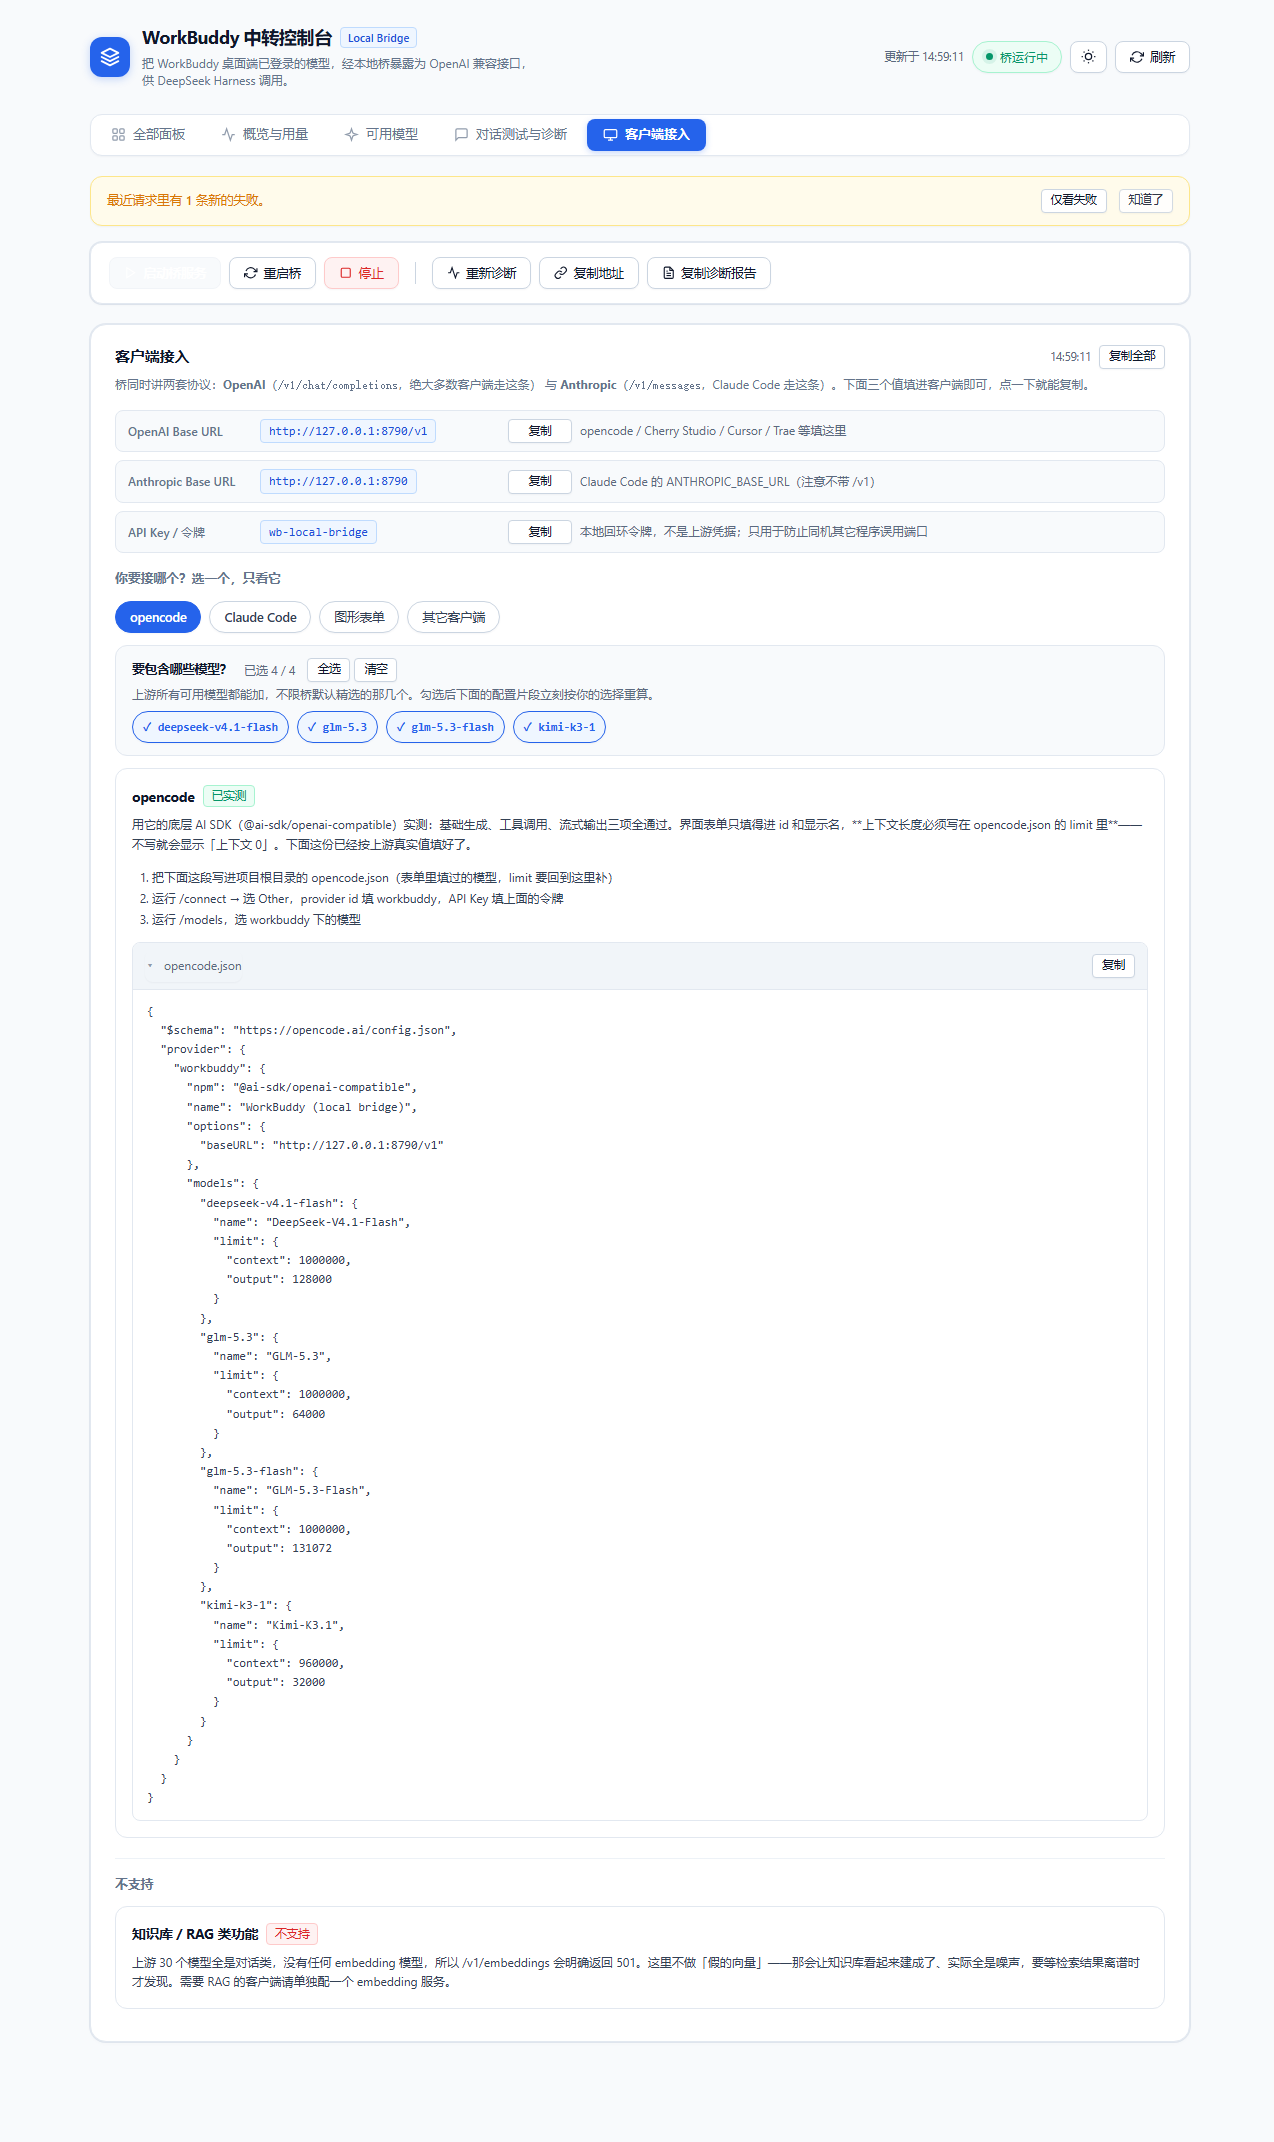
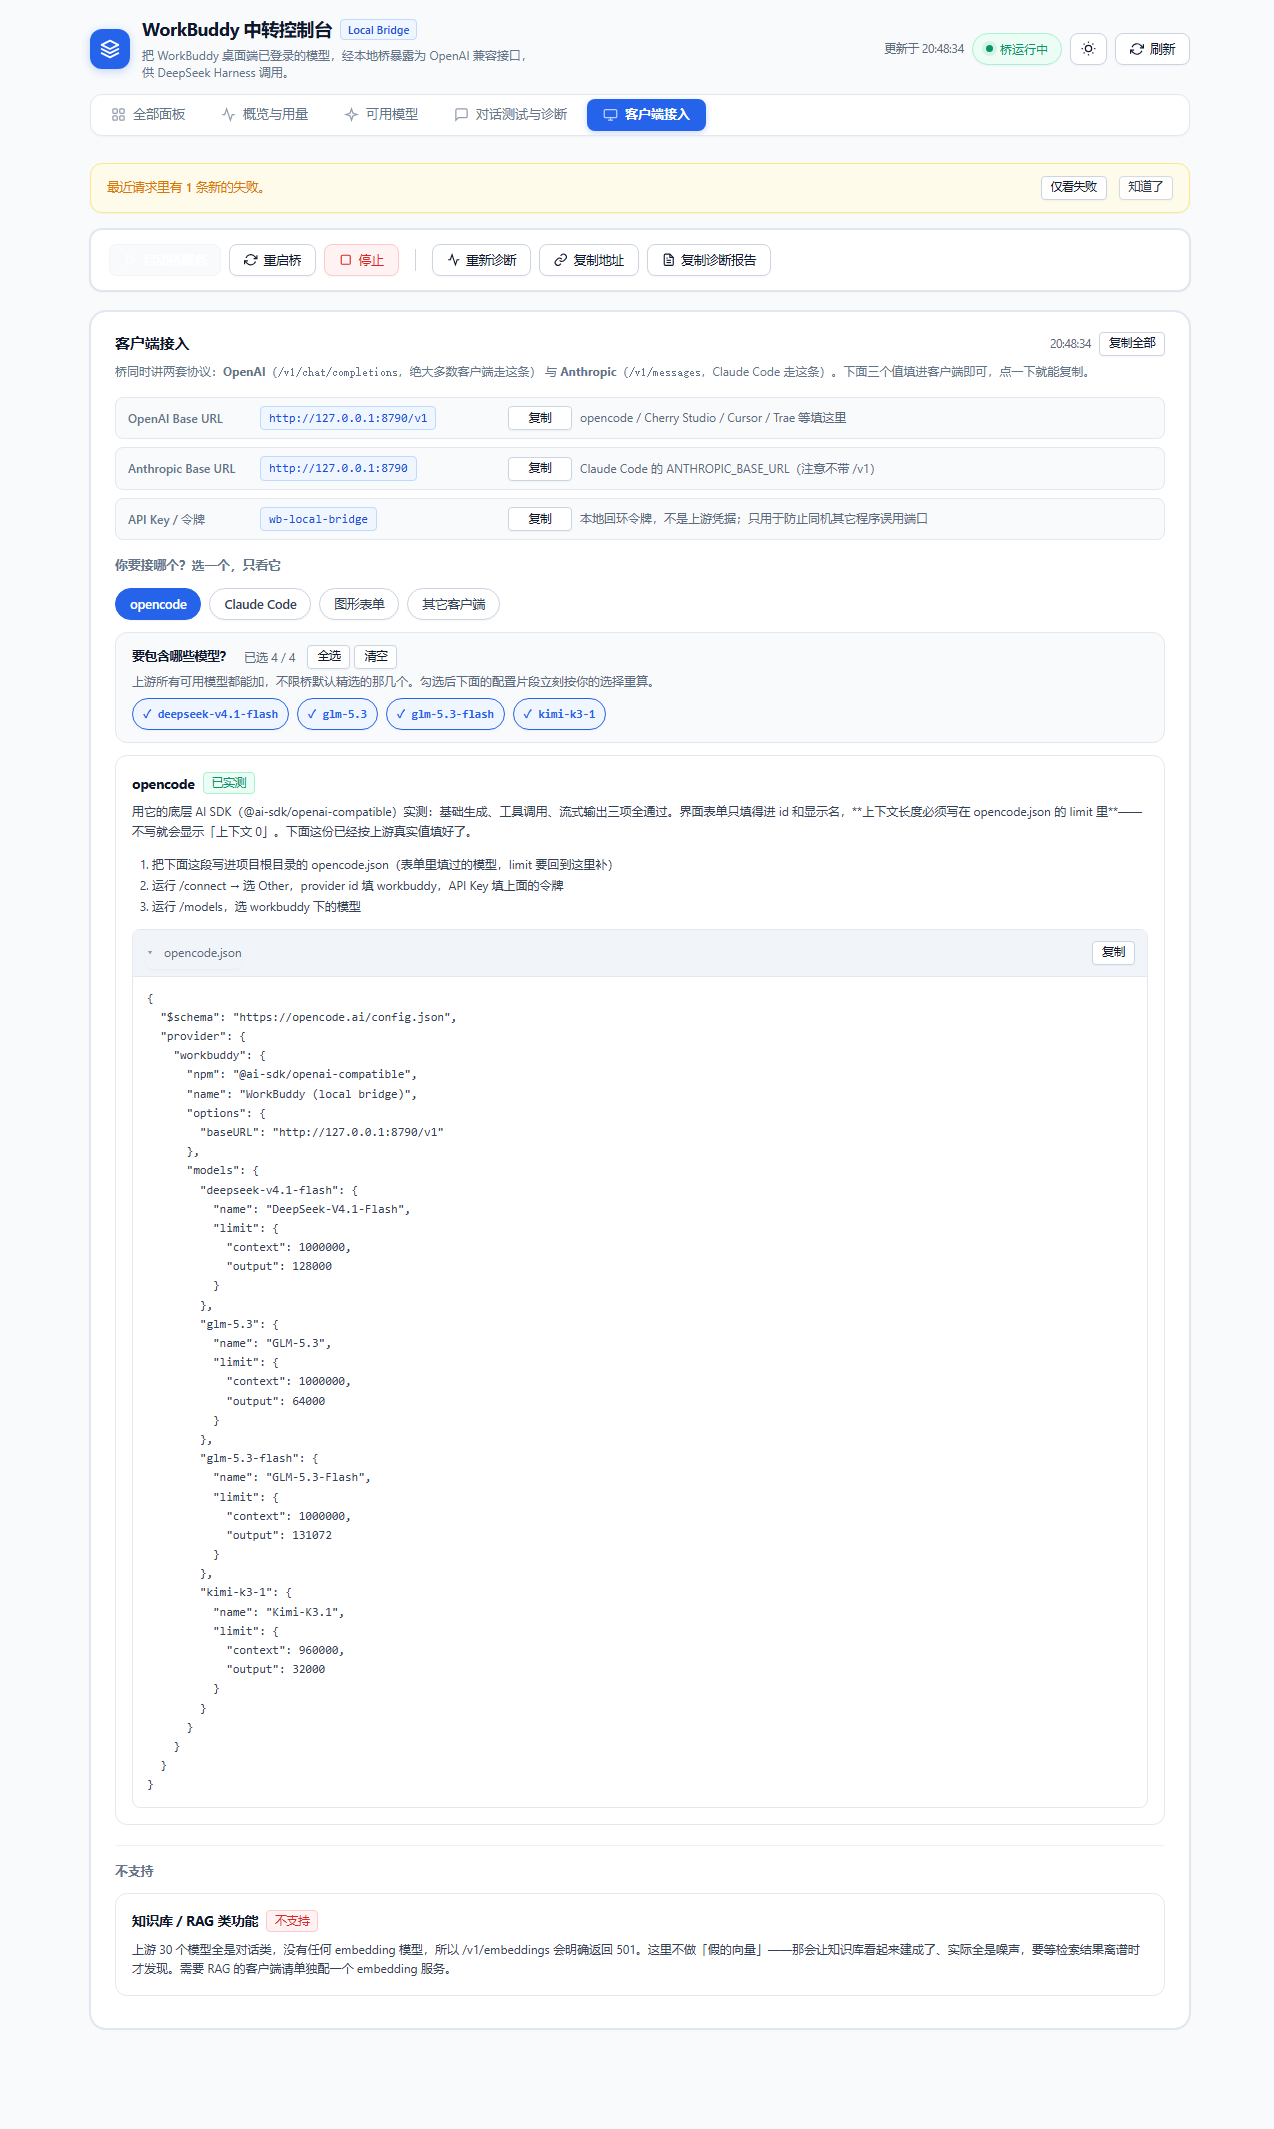
fix: 自动签到不生效 + 模型选择器只列 3 个
用户报的两个问题，根因完全不同，都不是"配置没开"。

## Bug 1：控制台不开、不调模型，就永远不签到

签到原先只挂在 `/v1/chat/completions` 开头 —— 「有人调模型」才顺带签一次。
但**桥才是常驻后台的那个进程**，控制台是用户平时会关掉的。

实测证据（用户的桥日志）：桥从 13:03 一直跑着，10-07 一整天**零模型请求**，
于是**一次签到都没发生**；控制台 20:03 才起，3 秒后触发时用户已经手动签过了
（`.state.json` 里 `lastResult: "already"`、`lastSource: "hourly"`）。

「自动签到」的承诺就是不让人记着这件事 —— 光靠「有人调模型」和「控制台开着」
覆盖不了「不开控制台也不调模型」这个**最常见的状态**。

**修**：桥加自己的定时器（启动 20s 后一次、之后每小时一次）。
另外补 `autoCheckinDoneDay`：当天签成功后就不再打上游 —— 没有这条的话，
定时器每小时都会问一次「签了没」，而答案永远是「签了」。国际版「没有签到活动」
同样当天收工（那个账号永远不会有成功）。

## Bug 2：明明 30 个模型，选择器只列 3 个

选择器列的是完整目录（`/api/models`），而它与 `/api/clients` 是**并行请求**的，
谁先回来不确定。clients 先回来时选择器只能用精选集兜底渲染 —— 而
`loadModels()` 重渲染了模型表、卡片、标题，**唯独没有重渲染客户端面板**，
于是它**永远停在精选集**。

页面看起来完全正常、没有任何报错。实测：目录加载完 30 个模型后，
选择器仍只显示 4 个。

**修**：`loadModels()` 里补一次 `renderClients()`（只在面板已渲染过时）。
用户已勾选的内容存在 `clientChosenModels` 里，重渲染不会丢。

## 两个测试写法上的坑（都是我自己的）

- **`billingBase()` 对非 codebuddy/workbuddy 域名会硬编码回 `www.codebuddy.cn`**
  —— 第一版测试没设 `WORKBUDDY_BILLING_BASE`，签到请求打到了**真实上游**
  （表现为「假上游计数 0 + HTTP 500」）。那个环境变量就是为离线验证准备的。
- **假上游判据写成 `includes('/checkin')` 匹配不上 `daily-checkin`**（连字符不是斜杠），
  静默落到 billing 分支 → 「签到成功但 credit 恒为 0」。

## 验证

- 新增 `test-auto-checkin.mjs`：**全程零 chat 请求**，断言桥仍能自己签到
  （0 chat → 1 次 POST → `ok 100`），且成功后不重复打上游
- 新增 `test-model-picker-catalog.mjs`：两种返回顺序（目录先到 / 后到）
  都必须列出**完整目录**，而不是精选集
- 面板断言 87 → 88 项（补「选择器列出完整目录」）
- `release:check` 74/74，动效审计、数据排版全通过

diff --git a/dashboard/public/index.html b/dashboard/public/index.html
@@ -2380,6 +2380,20 @@ async function loadModels(opts = {}) {
   renderCards();
   renderModelSection();
   refreshTitle(); // 标题里的「M 模型」来自目录
+
+  /*
+   * 目录到了要**重渲染客户端接入面板**。
+   *
+   * 那个面板里的模型选择器列的是**完整目录**，而 `/api/clients` 与 `/api/models`
+   * 是并行请求的 —— 谁先回来不确定。clients 先回来时，选择器只能用精选集兜底渲染；
+   * 目录到达后若不重渲染，它就会**永远停在精选集**：
+   * 实测目录加载完 30 个模型后，选择器仍只显示 4 个 —— 用户看到的就是
+   * 「明明有 30 个可用模型，却只让我从 3 个里选」。
+   *
+   * 只在面板**已经渲染过**时才重渲染：没渲染过的话，它下次渲染自然会拿到新目录。
+   * 用户已勾选的内容存在 `clientChosenModels` 里，重渲染不会丢。
+   */
+  if ($('clientsBox') && $('clientsBox').childElementCount > 0) renderClients();
 }
 
 /** 模型面板时间戳：`更新于 HH:MM:SS` + 有缓存时补 `目录 HH:MM`（本地时间）。 */

diff --git a/README.md b/README.md
@@ -217,7 +217,7 @@ dsh plugin --profile desktop add <本仓库路径>/dsh-plugin
 | 账号 | 登录目录下存在多个账号快照时，可在此切换桥使用哪一个（自动重启桥、记住选择，并清空上一个账号的体检结论） |
 | 用量统计 | 最近 1 / 7 / 30 天的调用次数、token 数、平均耗时、**消耗积分**、失败数；**趋势图**可切指标（次数 / tokens / 积分）与粒度（按天 / 最近 24 小时），**积分排行**看「这段时间积分花在哪了」；可导出 CSV，也可**清空账本** |
 | 最近请求 | 逐条请求明细（时间 / 模型 / 流式与否 / 耗时 / token / 积分 / 结果），**失败标红**并显示上游错误码，**点失败标签可一键复制错误详情**；支持**模型筛选** +「仅看失败」+ 40 / 100 / 200 条叠加，可**暂停自动刷新**、**导出当前筛选的 CSV**；只含元数据，不含对话内容 |
-| 每日签到 | 查看今日签到状态与连续天数，一键领取；**每日自动签到**默认开启（桥在跑就随首次模型请求自动签，控制台开着就启动时与每小时检查一次），失败会留痕、可关闭 |
+| 每日签到 | 查看今日签到状态与连续天数，一键领取；**每日自动签到**默认开启（桥自带定时器，**不开控制台、不调模型也会签**；有模型请求时还会顺带补签），失败会留痕、可关闭 |
 | 环境诊断 | 8 项检查，**按优先级排序**——红色项不解决，模型就不会出现 |
 | 可用模型 | 实际可用的全部模型（不能对话的内部模型已在桥的目录层过滤），含上下文、输出上限、**消耗倍率**与**实测成本**；**体检范围可选**（勾选的 / 已注册的 / 全部），可**一键取消勾选不可用的**、**同步可用模型到 dsh**、**手动刷新目录**；点 **ⓘ** 看模型详情（中文描述 / 厂商 / 标签 / 精确上下文与输出）；导出 CSV |
 | 对话测试 | **多轮对话**（带上下文）、按轮次分段、显示本轮 token / 扣分 / 耗时、回答可复制；流式输出可随时停止；附带桥日志（可按关键字过滤 / 只看错误 / 只看本次启动 / 清空） |

diff --git a/dashboard/README.md b/dashboard/README.md
@@ -338,12 +338,21 @@ id 往往重合，混着看会直接误导。
 
 签到是确定性的每日动作，忘了就是白丢积分。默认**开启**：
 
-- **两条触发路径**：① 桥在跑 —— 每天首次模型请求时自动签（fire-and-forget，
-  绝不拖慢这次调用）；② 控制台开着 —— 启动时与每小时检查一次。
+- **三条触发路径**：① **桥自己的定时器**（启动 20 秒后一次、之后每小时一次）；
+  ② 桥在跑且有人调模型 —— 每天首次模型请求时顺带签（fire-and-forget，绝不拖慢调用）；
+  ③ 控制台开着 —— 启动时与每小时检查一次。
+
+  > **为什么必须有 ①**：桥才是常驻后台的那个进程，而控制台是用户平时会关掉的。
+  > 实测撞上过：桥从 13:03 一直跑着、一整天**零模型请求**，于是**一次签到都没发生**，
+  > 用户晚上打开控制台才发现还得手动签 —— 而「自动签到」的承诺就是不让人记着这件事。
+  > 光有 ②③ 覆盖不了「不开控制台也不调模型」这个最常见的状态。
 - **开关**：签到面板的「每日自动签到」，写入 `.state.json` 的 `checkin.auto`。
   控制台侧**立即生效**；**桥侧需重启桥生效**（页面会如实提示，不会偷偷重启）。
 - **失败策略**（写死，避免对上游打无效请求）：失败后冷却 1 小时再试，当天最多 3 次。
   上游「已签到」按**成功**处理，绝不记成失败。
+  另外**当天签成功后就不再打上游**（`autoCheckinDoneDay`）—— 没有这条的话，
+  定时器每小时都会问一次「签了没」，而答案永远是「签了」。
+  国际版「没有签到活动」同样当天收工：那个账号永远不会有成功。
 - **状态可见**：面板显示 `今日已签到 · 自动/手动（HH:MM）`、失败时红字给出原因与
   「可手动重试」、国际版则如实写「当前账号没有签到活动」。另外有「上次尝试」留痕。
 - **不进账本**：账本只统计模型调用，签到结果只进 `.state.json` 与桥的 `/health` 内存态。
